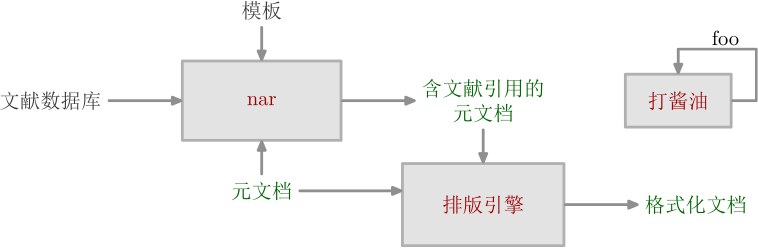
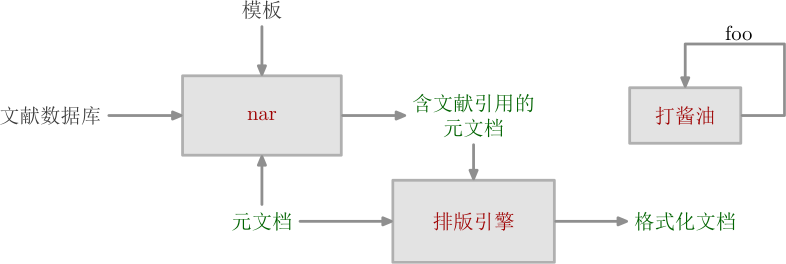
Nikola auto commit.
Source commit: e13afaca7ffc818cbf316982cf3576a0c017b759
Nikola version: 8.0.1

diff --git a/posts/flow-charts.html b/posts/flow-charts.html
@@ -32,16 +32,16 @@
 <meta property="og:site_name" content="NULL">
 <meta property="og:title" content="流程图">
 <meta property="og:url" content="/posts/flow-charts.html">
-<meta property="og:description" content="\usemodule[zhfonts]
+<meta property="og:description" content="用 MetaFun 制作了一个用于绘制简单的流程图的模块。
+
+\usemodule[zhfonts]
 \defineframed
   [myframe]
   [frame=off, offset=overlay,
     width=2.5cm, autowidth=force,
     align={middle, lohi, broad}]
 \startMPpage
-input chart.mp;
-path defaultframe;
-defaultfr">
+input chart.m">
 <meta property="og:type" content="article">
 <meta property="article:published_time" content="2018-10-31T17:42:15+08:00">
 <meta property="article:tag" content="MetaFun">
@@ -83,7 +83,8 @@ defaultfr">
 
     </header><div class="e-content entry-content" itemprop="articleBody text">
     <div>
-<p><img alt="自出入" src="../images/flow-charts/demo.png"></p>
+<p>用 MetaFun 制作了一个用于绘制简单的流程图的模块。</p>
+<p><img alt="" src="../images/flow-charts/demo.png"></p>
 <pre class="code literal-block"><span></span><span class="k">\usemodule</span><span class="na">[zhfonts]</span>
 <span class="k">\defineframed</span>
   [myframe]
@@ -100,9 +101,10 @@ picture a, b, c, d, e, f, g;
 a := procedure("nar", defaultframe);
 b := put(io("模板"), a, "top");
 c := put(io("文献数据库"), a, "left");
-d := put(colored<span class="nb">_</span>io("元文档", .625darkgreen), a, "bottom");
+d := colored<span class="nb">_</span>io("元文档", .625darkgreen);
 e := put(colored<span class="nb">_</span>io("<span class="k">\myframe</span><span class="nb">{</span>含文献引用的元文档<span class="nb">}</span>", .625darkgreen), a, "right");
 f := put(procedure("排版引擎", like(a)), e, "bottom");
+d := put(d, f, "left");
 g := put(colored<span class="nb">_</span>io("格式化文档", .625darkgreen), f, "right");
 
 path b.frm, c.frm, d.frm, e.frm, g.frm;
@@ -111,13 +113,12 @@ forsuffixes i = b, c, d, e, g: i.frm := frame(i); endfor;
 <span class="c">% 绘制流程图</span>
 for i = a, b, c, d, e, f, g: draw i; endfor;
 b.frm ==&gt; a; c.frm ==&gt; a; d.frm ==&gt; a; d.frm ==&gt; f; a ==&gt; e.frm; e.frm ==&gt; f; f ==&gt; g.frm;
-flow a<span class="nb">_</span>to<span class="nb">_</span>f;
 
 picture t; pair t.out, t.in; path t.self;
-t := put(procedure("打酱油", like(fullsquare xysized (2cm,1cm))), e, "right");
+t := put(procedure("打酱油", defaultframe scaled 0.7), e, "right");
 t.out := anchor(t, "right", 0); t.in  := anchor(t, "top", 0);
 t.self := t.out <span class="nb">&amp;&amp;</span> right * margin <span class="nb">&amp;&amp;</span> up * (margin + dv(t.in, t.out)) <span class="nb">&amp;&amp;</span> left * (H t.in) -- t.in;
-draw t; tagged<span class="nb">_</span>flow ("foo", "top", 0.6) t.self;
+draw t; tagged<span class="nb">_</span>flow ("foo", "top", 0.625) t.self;
 <span class="k">\stopMPpage</span>
 </pre>
 
@@ -157,23 +158,18 @@ vardef procedure(expr s, frame) =
 enddef;
 
 vardef put(expr p, ref, toward) =
-  save center_of_ref, center_of_p, d;
-  pair center_of_ref, center_of_p; numeric d;
-  center_of_ref := center ref;
+  save offset; pair  offset;
+  offset := center ref - center p;
   if toward = "left":
-    d := xpart center_of_ref - 0.5(bbwidth ref) - 0.5(bbwidth p) - hgap;
-    center_of_p := (d, ypart center_of_ref);
+    offset := offset - (hgap, 0);
   elseif toward = "right":
-    d := xpart center_of_ref + 0.5(bbwidth ref) + 0.5(bbwidth p) + hgap;
-    center_of_p := (d, ypart center_of_ref);
+    offset := offset + (hgap, 0);
   elseif toward = "top":
-    d := ypart center_of_ref + 0.5(bbheight ref) + 0.5(bbheight p) + vgap;
-    center_of_p := (xpart center_of_ref, d);
+    offset := offset + (0, vgap);
   elseif toward = "bottom":
-    d := ypart center_of_ref - 0.5(bbheight ref) - 0.5(bbheight p) - vgap;
-    center_of_p := (xpart center_of_ref, d);
+    offset := offset - (0, vgap);
   fi;
-  p shifted center_of_p
+  p shifted offset
 enddef;
 
 vardef anchor(expr p, base, location) =
@@ -298,9 +294,9 @@ drawpathoptions(withpen pencircle scaled 1.5 withcolor flowcolor);
 
 % 留白与间距尺寸
 numeric gap, hgap, vgap, margin, padding;
-gap := 1.5cm;
+gap := 4cm;
 hgap := gap; vgap := 0.5gap;
-margin := 0.3gap; padding := 4;
+margin := 0.2gap; padding := 4;
 </pre>
 </div>
     </div>

diff --git a/obsolete/index.html b/obsolete/index.html
@@ -62,7 +62,8 @@
         </div>
     </header><div class="e-content entry-content">
     <div>
-<p><img alt="自出入" src="../images/flow-charts/demo.png"></p>
+<p>用 MetaFun 制作了一个用于绘制简单的流程图的模块。</p>
+<p><img alt="" src="../images/flow-charts/demo.png"></p>
 <pre class="code literal-block"><span></span><span class="k">\usemodule</span><span class="na">[zhfonts]</span>
 <span class="k">\defineframed</span>
   [myframe]
@@ -79,9 +80,10 @@ picture a, b, c, d, e, f, g;
 a := procedure("nar", defaultframe);
 b := put(io("模板"), a, "top");
 c := put(io("文献数据库"), a, "left");
-d := put(colored<span class="nb">_</span>io("元文档", .625darkgreen), a, "bottom");
+d := colored<span class="nb">_</span>io("元文档", .625darkgreen);
 e := put(colored<span class="nb">_</span>io("<span class="k">\myframe</span><span class="nb">{</span>含文献引用的元文档<span class="nb">}</span>", .625darkgreen), a, "right");
 f := put(procedure("排版引擎", like(a)), e, "bottom");
+d := put(d, f, "left");
 g := put(colored<span class="nb">_</span>io("格式化文档", .625darkgreen), f, "right");
 
 path b.frm, c.frm, d.frm, e.frm, g.frm;
@@ -90,13 +92,12 @@ forsuffixes i = b, c, d, e, g: i.frm := frame(i); endfor;
 <span class="c">% 绘制流程图</span>
 for i = a, b, c, d, e, f, g: draw i; endfor;
 b.frm ==&gt; a; c.frm ==&gt; a; d.frm ==&gt; a; d.frm ==&gt; f; a ==&gt; e.frm; e.frm ==&gt; f; f ==&gt; g.frm;
-flow a<span class="nb">_</span>to<span class="nb">_</span>f;
 
 picture t; pair t.out, t.in; path t.self;
-t := put(procedure("打酱油", like(fullsquare xysized (2cm,1cm))), e, "right");
+t := put(procedure("打酱油", defaultframe scaled 0.7), e, "right");
 t.out := anchor(t, "right", 0); t.in  := anchor(t, "top", 0);
 t.self := t.out <span class="nb">&amp;&amp;</span> right * margin <span class="nb">&amp;&amp;</span> up * (margin + dv(t.in, t.out)) <span class="nb">&amp;&amp;</span> left * (H t.in) -- t.in;
-draw t; tagged<span class="nb">_</span>flow ("foo", "top", 0.6) t.self;
+draw t; tagged<span class="nb">_</span>flow ("foo", "top", 0.625) t.self;
 <span class="k">\stopMPpage</span>
 </pre>
 
@@ -136,23 +137,18 @@ vardef procedure(expr s, frame) =
 enddef;
 
 vardef put(expr p, ref, toward) =
-  save center_of_ref, center_of_p, d;
-  pair center_of_ref, center_of_p; numeric d;
-  center_of_ref := center ref;
+  save offset; pair  offset;
+  offset := center ref - center p;
   if toward = "left":
-    d := xpart center_of_ref - 0.5(bbwidth ref) - 0.5(bbwidth p) - hgap;
-    center_of_p := (d, ypart center_of_ref);
+    offset := offset - (hgap, 0);
   elseif toward = "right":
-    d := xpart center_of_ref + 0.5(bbwidth ref) + 0.5(bbwidth p) + hgap;
-    center_of_p := (d, ypart center_of_ref);
+    offset := offset + (hgap, 0);
   elseif toward = "top":
-    d := ypart center_of_ref + 0.5(bbheight ref) + 0.5(bbheight p) + vgap;
-    center_of_p := (xpart center_of_ref, d);
+    offset := offset + (0, vgap);
   elseif toward = "bottom":
-    d := ypart center_of_ref - 0.5(bbheight ref) - 0.5(bbheight p) - vgap;
-    center_of_p := (xpart center_of_ref, d);
+    offset := offset - (0, vgap);
   fi;
-  p shifted center_of_p
+  p shifted offset
 enddef;
 
 vardef anchor(expr p, base, location) =
@@ -277,9 +273,9 @@ drawpathoptions(withpen pencircle scaled 1.5 withcolor flowcolor);
 
 % 留白与间距尺寸
 numeric gap, hgap, vgap, margin, padding;
-gap := 1.5cm;
+gap := 4cm;
 hgap := gap; vgap := 0.5gap;
-margin := 0.3gap; padding := 4;
+margin := 0.2gap; padding := 4;
 </pre>
 </div>
     </div>

diff --git a/posts/flow-charts.md b/posts/flow-charts.md
@@ -9,7 +9,9 @@
 .. type: text
 -->
 
-![自出入](/images/flow-charts/demo.png)
+用 MetaFun 制作了一个用于绘制简单的流程图的模块。
+
+![](/images/flow-charts/demo.png)
 
 ```TeX
 \usemodule[zhfonts]
@@ -28,9 +30,10 @@ picture a, b, c, d, e, f, g;
 a := procedure("nar", defaultframe);
 b := put(io("模板"), a, "top");
 c := put(io("文献数据库"), a, "left");
-d := put(colored_io("元文档", .625darkgreen), a, "bottom");
+d := colored_io("元文档", .625darkgreen);
 e := put(colored_io("\myframe{含文献引用的元文档}", .625darkgreen), a, "right");
 f := put(procedure("排版引擎", like(a)), e, "bottom");
+d := put(d, f, "left");
 g := put(colored_io("格式化文档", .625darkgreen), f, "right");
 
 path b.frm, c.frm, d.frm, e.frm, g.frm;
@@ -39,13 +42,12 @@ forsuffixes i = b, c, d, e, g: i.frm := frame(i); endfor;
 % 绘制流程图
 for i = a, b, c, d, e, f, g: draw i; endfor;
 b.frm ==> a; c.frm ==> a; d.frm ==> a; d.frm ==> f; a ==> e.frm; e.frm ==> f; f ==> g.frm;
-flow a_to_f;
 
 picture t; pair t.out, t.in; path t.self;
-t := put(procedure("打酱油", like(fullsquare xysized (2cm,1cm))), e, "right");
+t := put(procedure("打酱油", defaultframe scaled 0.7), e, "right");
 t.out := anchor(t, "right", 0); t.in  := anchor(t, "top", 0);
 t.self := t.out && right * margin && up * (margin + dv(t.in, t.out)) && left * (H t.in) -- t.in;
-draw t; tagged_flow ("foo", "top", 0.6) t.self;
+draw t; tagged_flow ("foo", "top", 0.625) t.self;
 \stopMPpage
 ```
 
@@ -86,23 +88,18 @@ vardef procedure(expr s, frame) =
 enddef;
 
 vardef put(expr p, ref, toward) =
-  save center_of_ref, center_of_p, d;
-  pair center_of_ref, center_of_p; numeric d;
-  center_of_ref := center ref;
+  save offset; pair  offset;
+  offset := center ref - center p;
   if toward = "left":
-    d := xpart center_of_ref - 0.5(bbwidth ref) - 0.5(bbwidth p) - hgap;
-    center_of_p := (d, ypart center_of_ref);
+    offset := offset - (hgap, 0);
   elseif toward = "right":
-    d := xpart center_of_ref + 0.5(bbwidth ref) + 0.5(bbwidth p) + hgap;
-    center_of_p := (d, ypart center_of_ref);
+    offset := offset + (hgap, 0);
   elseif toward = "top":
-    d := ypart center_of_ref + 0.5(bbheight ref) + 0.5(bbheight p) + vgap;
-    center_of_p := (xpart center_of_ref, d);
+    offset := offset + (0, vgap);
   elseif toward = "bottom":
-    d := ypart center_of_ref - 0.5(bbheight ref) - 0.5(bbheight p) - vgap;
-    center_of_p := (xpart center_of_ref, d);
+    offset := offset - (0, vgap);
   fi;
-  p shifted center_of_p
+  p shifted offset
 enddef;
 
 vardef anchor(expr p, base, location) =
@@ -227,7 +224,7 @@ drawpathoptions(withpen pencircle scaled 1.5 withcolor flowcolor);
 
 % 留白与间距尺寸
 numeric gap, hgap, vgap, margin, padding;
-gap := 1.5cm;
+gap := 4cm;
 hgap := gap; vgap := 0.5gap;
-margin := 0.3gap; padding := 4;
+margin := 0.2gap; padding := 4;
 ```
